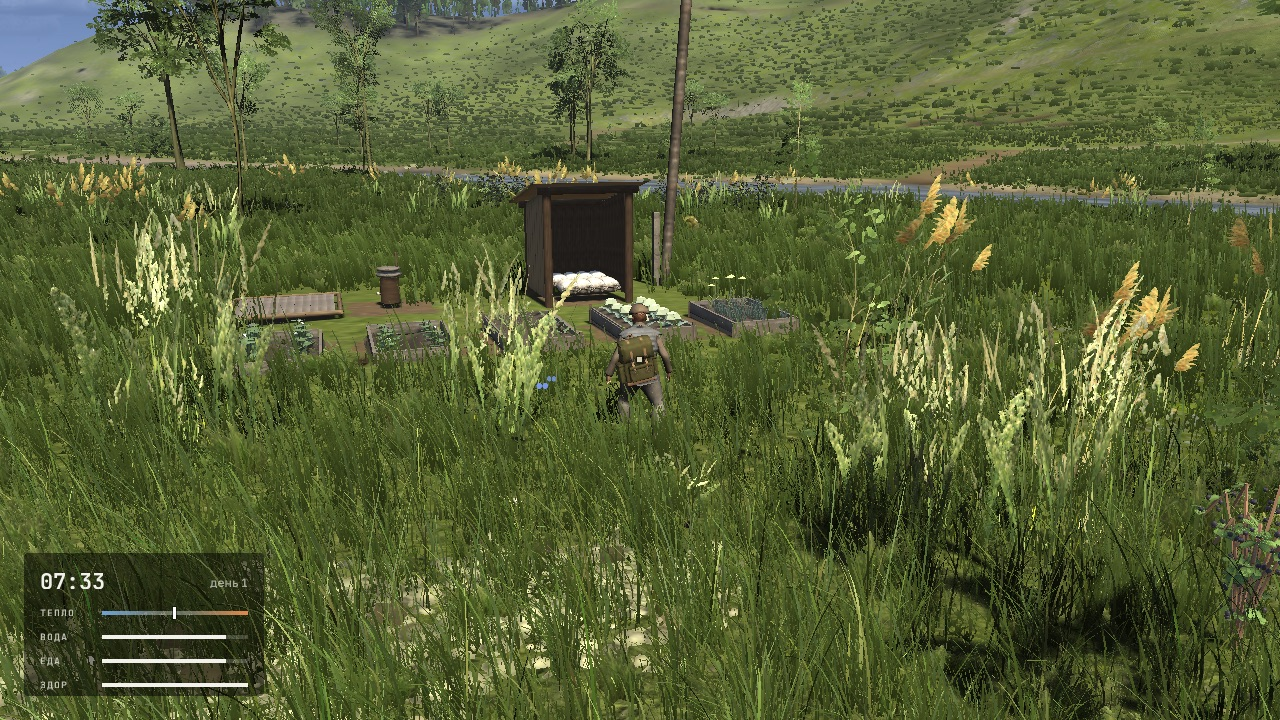
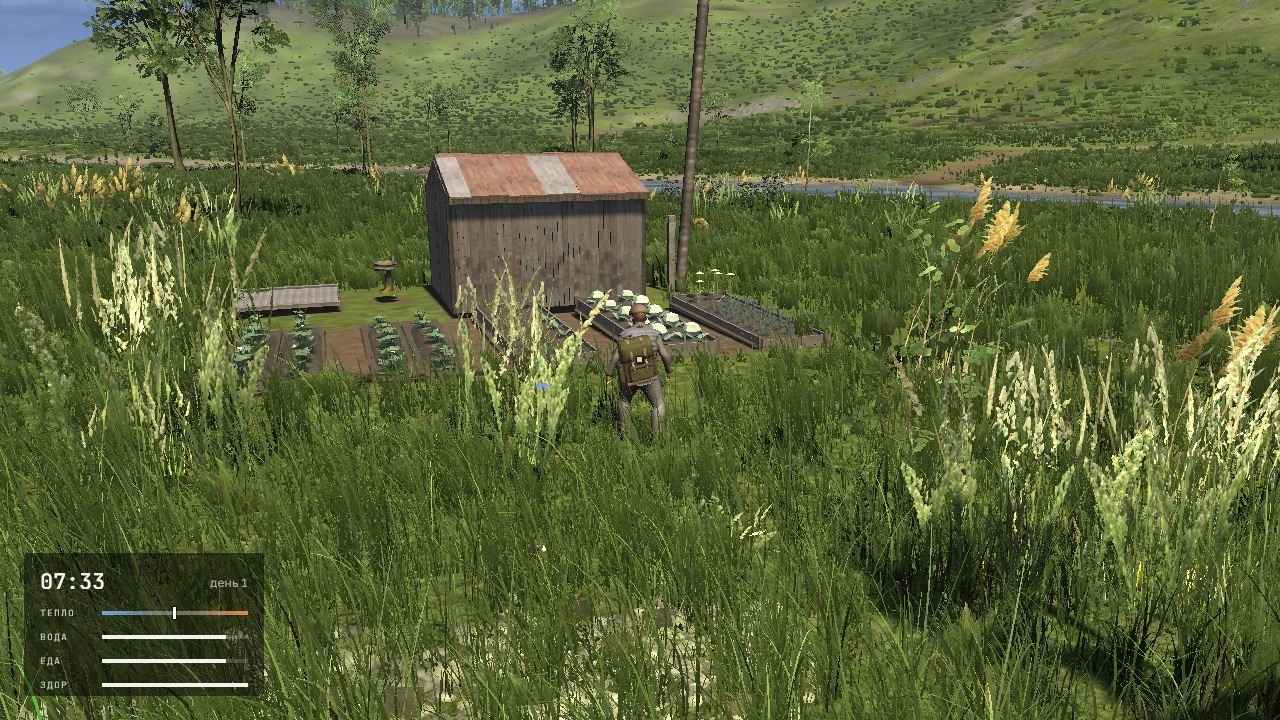
PV6 fields report

diff --git a/progress.js b/progress.js
@@ -766,7 +766,8 @@ window.PEREGON = {
     {"date": "2026-10-22", "time": "12:40", "stage": "PV7b · Новые места", "commit": "23e58d5a06", "branch": "claude/peregon-pv7b-places", "title": "Воинская часть, научная станция, ещё два бункера, автобаза и стройдвор; кузня, яма и швейные машинки в старых местах", "text": "Воинская часть 63472 на лугу у Плешивой: оружейный стол с прессом, гильзы, лом и запчасти, инструкция к армейскому грузовику в штабе; заражена днём и ночью (8 жильцов, гнездо в штабе). Научная полевая станция в долине: лабораторный домик и журнал лаборатории; заражена днём и ночью (5 жильцов, два гнезда — под записки). Ещё два бункера — гарнизонное убежище и лесной бункер, со своей добычей и жильцами, заражены всегда. Автобаза у озёрной дороги: гаражный пост с ямой, кран-балкой, компрессором и зарядкой, чертёж бочки-прицепа; жильцы только ночью. Стройдвор у лесовозной дороги: верстак плотника и стройматериалы, без жильцов. В старых местах: кузня в колхозе, смотровая яма в колхозном ангаре, швейные машинки в четырёх деревенских домах. Все 11 документов-рецептов теперь лежат в мире. Всего 82 жильца в 27 местах.", "checks": [{"ok": true, "name": "Тесты", "value": "poi 11, zhiltsy 8, stations 11, tech 6, bunker 6 (кооп), stations_play 19, tech_play 7, zhiltsy_play 5, coop_audit 29, railworks_play 9, region_static"}, {"ok": true, "name": "Кадр", "value": "часть 14,8 мс, станция 12,9, автобаза 8,0, стройдвор 15,0 (Лесопилка 13,6)"}, {"ok": false, "name": "Открыто", "value": "оружейный стол, кузня, яма, лабораторный стол, швейная машинка — серые коробки; новые станки пока без рецептов (PV9); капсюлей и пороха нет — вместо них патроны"}], "shots": [{"src": "shots/pv7b/01_military_unit_day.jpg", "caption": "Воинская часть", "platform": "native Metal"}, {"src": "shots/pv7b/11_military_unit_night_zhiltsy.jpg", "caption": "Часть ночью: жильцы", "platform": "native Metal"}, {"src": "shots/pv7b/02_research_station_day.jpg", "caption": "Научная станция", "platform": "native Metal"}, {"src": "shots/pv7b/03_motor_depot_day.jpg", "caption": "Автобаза", "platform": "native Metal"}, {"src": "shots/pv7b/04_builders_yard_day.jpg", "caption": "Стройдвор", "platform": "native Metal"}, {"src": "shots/pv7b/09_kolkhoz_forge.jpg", "caption": "Кузня в колхозе", "platform": "native Metal"}, {"src": "shots/pv7b/13_garrison_shelter_inside.jpg", "caption": "Гарнизонное убежище", "platform": "native Metal"}]},
     {"date": "2026-10-22", "time": "13:55", "stage": "PV5 · Налёты", "commit": "0f7f6e3ba7", "branch": "claude/peregon-pv5-raids", "title": "Налёты жильцов на базу: наблюдатели, предупреждения, крик, штурм ограды и окон; оборонительные постройки", "text": "База — самое большое скопление построек игроков (от 6 элементов или любой склад/верстак). Налёт через 7–14 дней после появления базы и дальше каждые 7–14 дней. За 3–4 ночи до него у базы появляются 1–2 жильца, с каждой ночью больше: стоят в 45–70 м, смотрят и машут, а если подойти, пойти на них или выстрелить рядом — убегают. Каждое утро подготовки: «Замечен чужой вне зон обитания. Готовьтесь к нападению», в день налёта: «Сегодня ночью будет нападение». Ночью долгий крик (будит спящих, сон налёт не пропускает), потом штурм: 4–6 жильцов на первый раз, больше с каждым игроком и прожитыми днями. Двое уходят за каждым игроком, который далеко от базы. Остальные ломают самое слабое место на пути, проходят в открытые ворота, перелезают низкие заборы и лезут в окна через сломанные ставни; на рассвете рассыпаются. 13 оборонительных построек (П-097…П-116): заборы, частокол, ворота, калитки, ставни, колья, ров и вал, вышка, рельс-набат — у каждой прочность, сломанные теряют стену и кренятся, киянка чинит. Жильцы больше не проходят сквозь заборы, бегуны мостиком наклоняются по склону, тела темнее. Лимит видов построек расширен до 255.", "checks": [{"ok": true, "name": "Тесты", "value": "raid (налёт от подготовки до рассвета, сохранение), build, build_mesh_lint 19, zhiltsy, zhiltsy_play (+налёт на карте, кооп), build_play, loc, net, net_world, stations_play"}, {"ok": true, "name": "Сборка", "value": "native-release, протокол 34"}, {"ok": false, "name": "Открыто", "value": "налёт не видит дома посёлка рядом с базой как препятствия; на вышку — телепорт вместо лестницы; машину жильцы не ломают; оборона — существующие модели"}], "shots": [{"src": "shots/pv5/01_scouts_watch_the_base.jpg", "caption": "Наблюдатели у базы машут", "platform": "native Metal"}, {"src": "shots/pv5/02_preparation_message.jpg", "caption": "«Готовьтесь к нападению»", "platform": "native Metal"}, {"src": "shots/pv5/03_raid_day_message.jpg", "caption": "«Сегодня ночью будет нападение»", "platform": "native Metal"}, {"src": "shots/pv5/05_attack_on_the_wicket.jpg", "caption": "Штурм калитки", "platform": "native Metal"}, {"src": "shots/pv5/06_climbing_in_through_a_broken_shutter.jpg", "caption": "Лезет в окно через сломанную ставню", "platform": "native Metal"}, {"src": "shots/pv5/04_hunted_away_from_the_base.jpg", "caption": "Охота на игрока вдали от базы", "platform": "native Metal"}, {"src": "shots/pv5/08_book_defence_page.jpg", "caption": "Книга: оборона", "platform": "native Metal"}]},
     {"date": "2026-10-22", "time": "14:30", "stage": "PV3b · Постройки", "commit": "4aee9b3e4c", "branch": "claude/peregon-pv3b-pieces", "title": "74 постройки из каталога: дома из досок, кирпича и металла, печи, кровати, свет, колодцы, хранение; кирпич и металл; модель киянки", "text": "В книге построек 11 страниц и 74 новые постройки из каталога (кроме обороны), каждая открывается своей технологией. Новые формы: полустена, перегородка, перила, столбчатый и ленточный фундаменты (стены на склоне до 1,5 м). Работают в игре: печи и костры берут дрова, горят по игровому времени, греют и светят; все кровати — сон; керосиновые лампы включаются, электрический свет — от работающего генератора; бочка для дождя, ванна и колодцы — вода; хранилища принимают только свои вещи; термометр показывает температуру. Генератор и пилорама ставятся из книги и с панели. Кирпич, раствор, пруток и профлист — новые предметы из тайников в разрушенных избах, ангаре, мастерских и ломе; кирпичные и металлические стены и крыша — настоящие модели. Своя модель киянки. Иконки панели перерисованы — 153 штуки.", "checks": [{"ok": true, "name": "Тесты", "value": "build 13 (151 элемент чистый), build_play 19, build_mesh_lint 84, scrap, loc, stations_play, net_world, coop_audit, raid"}, {"ok": true, "name": "Сборка", "value": "native-release"}, {"ok": false, "name": "Открыто", "value": "~25 позиций каталога без постройки (труба, пандусы, мосты, ветряк и др.); нет покрытий кровли и второго этажа; мелкие вещи занимают клетку 2 м; папоротник растёт сквозь пол; возврат при разборке 50 % ждёт решения"}], "shots": [{"src": "shots/pv3b/01_board_house_roof_door_window.jpg", "caption": "Дом из досок с крышей, дверью и окном", "platform": "native Metal"}, {"src": "shots/pv3b/02_iron_stove_inside.jpg", "caption": "Железная печь внутри", "platform": "native Metal"}, {"src": "shots/pv3b/03_brick_wall_half_wall_brick_stove_fireplace.jpg", "caption": "Кирпичная стена, полустена, печь, камин", "platform": "native Metal"}, {"src": "shots/pv3b/04_quick_bar_new_icons_mallet_first_person.jpg", "caption": "Панель с новыми иконками и киянка", "platform": "native Metal"}, {"src": "shots/pv3b/07_generator_started_from_bar_ghost.jpg", "caption": "Генератор с панели построек", "platform": "native Metal"}, {"src": "shots/pv3b/08_piece_icon_atlas.jpg", "caption": "Иконки построек", "platform": "Blender"}]},
-    {"date": "2026-10-22", "time": "16:00", "stage": "PV8 · Записки", "commit": "ff505a2a03", "branch": "claude/peregon-pv8-notes", "title": "37 записок о волне: исследователи, гарнизон, депо, шахтёры, шофёры, Лесопилка, колхоз", "text": "Найденные записки лежат на столах, нарах, в шкафчиках и у гнёзд жильцов: в каждом из 11 гнёзд есть записка, остальные — в бункерах, воинской части, научной станции, депо, на руднике, автобазе, заправке и в деревнях. 37 текстов в духе каталога, простым языком, без объяснения жильцов; 8 сквозных историй: группа Ситниковой, Кравец и гарнизон, бригада депо, шахтёры, шофёры автобазы и сын заправщика, Лесопилка, колхоз. E — открыть лист, первое прочтение даёт 20 опыта технологий; записка остаётся на месте для остальных и ложится в блокнот (Shift+K, вкладка «Записки»), её можно перечитать. У каждого игрока свой список; в коопе читать можно только рядом с запиской. Заодно экскаватор на разрезе передвинут на ровное место — все 103 места на карте собираются без ошибок.", "checks": [{"ok": true, "name": "Тесты", "value": "notes 3, notes_play 5 (кооп), tech_play, coop_audit, net, railworks_play, raid, loc"}, {"ok": true, "name": "Сборка", "value": "native-release, протокол 35"}, {"ok": false, "name": "Открыто", "value": "бумаги на полу бункеров невидимы (смотрят вниз, было и раньше); пять записок в бункерах не проверены глазами — слишком темно"}], "shots": [{"src": "shots/pv8/02_reading.jpg", "caption": "Чтение записки", "platform": "native Metal"}, {"src": "shots/pv8/01_nest_note_night.jpg", "caption": "Записка у гнезда ночью", "platform": "native Metal"}, {"src": "shots/pv8/03_research_station_lab_bench.jpg", "caption": "Научная станция", "platform": "native Metal"}, {"src": "shots/pv8/04_mil_base_hq_desk.jpg", "caption": "Штаб воинской части", "platform": "native Metal"}, {"src": "shots/pv8/06_notebook_notes.jpg", "caption": "Блокнот: «Записки»", "platform": "native Metal"}]}
+    {"date": "2026-10-22", "time": "16:00", "stage": "PV8 · Записки", "commit": "ff505a2a03", "branch": "claude/peregon-pv8-notes", "title": "37 записок о волне: исследователи, гарнизон, депо, шахтёры, шофёры, Лесопилка, колхоз", "text": "Найденные записки лежат на столах, нарах, в шкафчиках и у гнёзд жильцов: в каждом из 11 гнёзд есть записка, остальные — в бункерах, воинской части, научной станции, депо, на руднике, автобазе, заправке и в деревнях. 37 текстов в духе каталога, простым языком, без объяснения жильцов; 8 сквозных историй: группа Ситниковой, Кравец и гарнизон, бригада депо, шахтёры, шофёры автобазы и сын заправщика, Лесопилка, колхоз. E — открыть лист, первое прочтение даёт 20 опыта технологий; записка остаётся на месте для остальных и ложится в блокнот (Shift+K, вкладка «Записки»), её можно перечитать. У каждого игрока свой список; в коопе читать можно только рядом с запиской. Заодно экскаватор на разрезе передвинут на ровное место — все 103 места на карте собираются без ошибок.", "checks": [{"ok": true, "name": "Тесты", "value": "notes 3, notes_play 5 (кооп), tech_play, coop_audit, net, railworks_play, raid, loc"}, {"ok": true, "name": "Сборка", "value": "native-release, протокол 35"}, {"ok": false, "name": "Открыто", "value": "бумаги на полу бункеров невидимы (смотрят вниз, было и раньше); пять записок в бункерах не проверены глазами — слишком темно"}], "shots": [{"src": "shots/pv8/02_reading.jpg", "caption": "Чтение записки", "platform": "native Metal"}, {"src": "shots/pv8/01_nest_note_night.jpg", "caption": "Записка у гнезда ночью", "platform": "native Metal"}, {"src": "shots/pv8/03_research_station_lab_bench.jpg", "caption": "Научная станция", "platform": "native Metal"}, {"src": "shots/pv8/04_mil_base_hq_desk.jpg", "caption": "Штаб воинской части", "platform": "native Metal"}, {"src": "shots/pv8/06_notebook_notes.jpg", "caption": "Блокнот: «Записки»", "platform": "native Metal"}]},
+    {"date": "2026-10-22", "time": "16:35", "stage": "PV6 · Огород и поля", "commit": "137e5a9dab", "branch": "claude/peregon-pv6-fields", "title": "Огород, поля где угодно, сеялка, косилка, обмолот, мука и амбар", "text": "Огород: 31 старая грядка в брошенных местах (вскопать один раз — летом и осенью даёт дикий урожай), новые грядки строятся (ТС-51). Картошка и лук сажаются самими клубнями и луковицами, морковь, свёкла и капуста — из пакетиков семян; посадка не даётся, если урожай не успеет до заморозков; мороз губит неубранное; уборка — удерживать E. Без дождя 60 игровых часов рост встаёт, ведро воды держит грядку 36 ч. Поля: плуг размечает поле где угодно на лугу, в степи или на поле (квадраты 128 м, до 24); сеялка или руками на ходу; косилка (валки собираются в снопы), серп или жатка спереди. Семенная пшеница — на элеваторе, мельнице и колхозном току. Ток: снопы → зерно и солома; ручная мельница: зерно → мука; амбар на 400 мест без порчи, принимает зерно прямо из кузова. Каша и лепёшки варятся на костре. Каждая машина и постройка — по своей технологии. Кооп: один пашет, другой сеет.", "checks": [{"ok": true, "name": "Тесты", "value": "farm 27 (рост грядок детерминирован), fields_play 5 (кооп), build 14, build_play, build_mesh_lint, food_play, net_world, raid"}, {"ok": true, "name": "Сборка", "value": "native-release"}, {"ok": false, "name": "Открыто", "value": "спелая пшеница на новом поле похожа на жёлтую траву; сеялка, косилка, снопы и серп — коробки; морковь, свёкла и капуста — модели картошки и лука; нет молотилки от генератора, печного хлеба, мельницы в Берёзовке, сена и овса"}], "shots": [{"src": "shots/pv6/01_garden_beds_growing.jpg", "caption": "Грядки растут", "platform": "native Metal"}, {"src": "shots/pv6/03_harvested_potatoes.jpg", "caption": "Собранная картошка", "platform": "native Metal"}, {"src": "shots/pv6/04_new_field_ploughed_on_meadow.jpg", "caption": "Новое поле на лугу", "platform": "native Metal"}, {"src": "shots/pv6/05_seed_drill_sowing.jpg", "caption": "Сеялка", "platform": "native Metal"}, {"src": "shots/pv6/07_reaping_front_harvester.jpg", "caption": "Жатка", "platform": "native Metal"}, {"src": "shots/pv6/09_threshing_floor.jpg", "caption": "Ток", "platform": "native Metal"}, {"src": "shots/pv6/10_hand_quern_flour.jpg", "caption": "Ручная мельница: мука", "platform": "native Metal"}]}
   ],
 
   elements: [

diff --git a/changes.html b/changes.html
@@ -52,7 +52,7 @@
 <h3>Фиксы</h3><ul></ul>
 </section>
 <section><h2>Четверг, 22 октября</h2>
-<h3>Фичи</h3><ul><li>Места брошены: без жилого убранства, ночью огни погашены.</li><li>Убраны сюжет, квесты, диалоги, катсцены, контракты и все НПС; старые сохранения грузятся.</li><li>Убраны бандиты, заставы, конвои, фракции и Выброс; враги — только звери (жильцы будут позже).</li><li>Дерево технологий отдельно от навыков: 174 узла, свой опыт у каждого игрока, рецепты-документы в мире, вкладка «Технологии» в блокноте.</li><li>Станки работают сами: генератор на керосине и пилорама на Лесопилке, ремонт найденных станков, отчёт «Пока вас не было».</li><li>Жильцы: четыре тела из бывших жителей с выжженными глазами и улыбкой, 15 анимаций — взмах, поворот головы на 180°, бег мостиком, вой, рассыпание.</li><li>Жильцы выходят по ночам в бывших посёлках: ходят маршрутами прежних жителей, смотрят, машут, гонятся за бегущим, рассыпаются на рассвете.</li><li>Стройка киянкой: панель быстрых построек с иконками, наборы материалов (жерди, брёвна, доски), автоподбор из кузова и со склада по технологии, склады.</li><li>Станки разбираются на ящики, возятся в кузове и собираются на новом месте; генератор и пилораму можно построить с нуля.</li><li>Депо на Берёзовской ветке: мотовоз чинится и возит хоппер, экскаватор на разрезе грузит вагон угля; новый железный рудник.</li><li>Новые места: воинская часть с оружейным столом, научная станция, ещё два бункера, автобаза, стройдвор; кузня, смотровая яма и швейные машинки в старых местах.</li><li>Налёты жильцов на базу раз в 1–2 недели: наблюдатели и предупреждения, крик, штурм ограды и окон, охота на тех, кто далеко; заборы, ворота, ставни, вышка и рельс-набат.</li><li>74 новые постройки: дома из досок, кирпича и металла, печи греют и светят, кровати, лампы, колодцы и бочки для воды, хранилища; кирпич и металл из тайников; модель киянки.</li><li>37 записок о волне в гнёздах жильцов и на новых местах; вкладка «Записки» в блокноте.</li></ul>
+<h3>Фичи</h3><ul><li>Места брошены: без жилого убранства, ночью огни погашены.</li><li>Убраны сюжет, квесты, диалоги, катсцены, контракты и все НПС; старые сохранения грузятся.</li><li>Убраны бандиты, заставы, конвои, фракции и Выброс; враги — только звери (жильцы будут позже).</li><li>Дерево технологий отдельно от навыков: 174 узла, свой опыт у каждого игрока, рецепты-документы в мире, вкладка «Технологии» в блокноте.</li><li>Станки работают сами: генератор на керосине и пилорама на Лесопилке, ремонт найденных станков, отчёт «Пока вас не было».</li><li>Жильцы: четыре тела из бывших жителей с выжженными глазами и улыбкой, 15 анимаций — взмах, поворот головы на 180°, бег мостиком, вой, рассыпание.</li><li>Жильцы выходят по ночам в бывших посёлках: ходят маршрутами прежних жителей, смотрят, машут, гонятся за бегущим, рассыпаются на рассвете.</li><li>Стройка киянкой: панель быстрых построек с иконками, наборы материалов (жерди, брёвна, доски), автоподбор из кузова и со склада по технологии, склады.</li><li>Станки разбираются на ящики, возятся в кузове и собираются на новом месте; генератор и пилораму можно построить с нуля.</li><li>Депо на Берёзовской ветке: мотовоз чинится и возит хоппер, экскаватор на разрезе грузит вагон угля; новый железный рудник.</li><li>Новые места: воинская часть с оружейным столом, научная станция, ещё два бункера, автобаза, стройдвор; кузня, смотровая яма и швейные машинки в старых местах.</li><li>Налёты жильцов на базу раз в 1–2 недели: наблюдатели и предупреждения, крик, штурм ограды и окон, охота на тех, кто далеко; заборы, ворота, ставни, вышка и рельс-набат.</li><li>74 новые постройки: дома из досок, кирпича и металла, печи греют и светят, кровати, лампы, колодцы и бочки для воды, хранилища; кирпич и металл из тайников; модель киянки.</li><li>37 записок о волне в гнёздах жильцов и на новых местах; вкладка «Записки» в блокноте.</li><li>Огород и поля где угодно: грядки, посадка до заморозков, плуг, сеялка, косилка, серп, ток, ручная мельница, амбар; каша и лепёшки.</li></ul>
 <h3>Фиксы</h3><ul><li>Жильцы больше не проходят сквозь заборы и стены при погоне.</li><li>Экскаватор на разрезе стоит на ровном месте; все места карты собираются без ошибок.</li></ul>
 </section>
 <footer>Список составлен по коммит <a href="https://github.com/shsanek/EXEcutor/commit/b24dd2d6f8e79337d91c69e452edabd551b65d01">b24dd2d6f8e79337d91c69e452edabd551b65d01</a> включительно.</footer>

diff --git a/merges/2026-10-22.md b/merges/2026-10-22.md
@@ -355,3 +355,31 @@
 ![Штаб воинской части](../shots/pv8/04_mil_base_hq_desk.jpg)
 
 ![Блокнот: «Записки»](../shots/pv8/06_notebook_notes.jpg)
+
+## 436. Огород, поля где угодно, сеялка, косилка, обмолот, мука и амбар
+
+16:35 · PV6 · Огород и поля
+
+Коммит: [137e5a9dab](https://github.com/shsanek/EXEcutor/commit/137e5a9dab)
+
+Ветка: `claude/peregon-pv6-fields`
+
+Огород: 31 старая грядка в брошенных местах (вскопать один раз — летом и осенью даёт дикий урожай), новые грядки строятся (ТС-51). Картошка и лук сажаются самими клубнями и луковицами, морковь, свёкла и капуста — из пакетиков семян; посадка не даётся, если урожай не успеет до заморозков; мороз губит неубранное; уборка — удерживать E. Без дождя 60 игровых часов рост встаёт, ведро воды держит грядку 36 ч. Поля: плуг размечает поле где угодно на лугу, в степи или на поле (квадраты 128 м, до 24); сеялка или руками на ходу; косилка (валки собираются в снопы), серп или жатка спереди. Семенная пшеница — на элеваторе, мельнице и колхозном току. Ток: снопы → зерно и солома; ручная мельница: зерно → мука; амбар на 400 мест без порчи, принимает зерно прямо из кузова. Каша и лепёшки варятся на костре. Каждая машина и постройка — по своей технологии. Кооп: один пашет, другой сеет.
+
+- ✓ Тесты: farm 27 (рост грядок детерминирован), fields_play 5 (кооп), build 14, build_play, build_mesh_lint, food_play, net_world, raid
+- ✓ Сборка: native-release
+- ✗ Открыто: спелая пшеница на новом поле похожа на жёлтую траву; сеялка, косилка, снопы и серп — коробки; морковь, свёкла и капуста — модели картошки и лука; нет молотилки от генератора, печного хлеба, мельницы в Берёзовке, сена и овса
+
+![Грядки растут](../shots/pv6/01_garden_beds_growing.jpg)
+
+![Собранная картошка](../shots/pv6/03_harvested_potatoes.jpg)
+
+![Новое поле на лугу](../shots/pv6/04_new_field_ploughed_on_meadow.jpg)
+
+![Сеялка](../shots/pv6/05_seed_drill_sowing.jpg)
+
+![Жатка](../shots/pv6/07_reaping_front_harvester.jpg)
+
+![Ток](../shots/pv6/09_threshing_floor.jpg)
+
+![Ручная мельница: мука](../shots/pv6/10_hand_quern_flour.jpg)

diff --git a/CHANGELOG.md b/CHANGELOG.md
@@ -799,6 +799,7 @@
 - Налёты жильцов на базу раз в 1–2 недели: наблюдатели и предупреждения, крик, штурм ограды и окон, охота на тех, кто далеко; заборы, ворота, ставни, вышка и рельс-набат.
 - 74 новые постройки: дома из досок, кирпича и металла, печи греют и светят, кровати, лампы, колодцы и бочки для воды, хранилища; кирпич и металл из тайников; модель киянки.
 - 37 записок о волне в гнёздах жильцов и на новых местах; вкладка «Записки» в блокноте.
+- Огород и поля где угодно: грядки, посадка до заморозков, плуг, сеялка, косилка, серп, ток, ручная мельница, амбар; каша и лепёшки.
 
 **Фиксы**
 

diff --git a/manager-log.md b/manager-log.md
@@ -1061,3 +1061,4 @@ One line per decision. Times are local (Mac).
 2026-10-22 15:30 PV8 notes and PV9a crafting finished; both asked to rebase onto fa7094098f (PV8 protocol 35, PV9a 36). Next: PV9b balance after PV9a merges
 2026-10-22 15:45 PV6 fields finished; asked to rebase onto fa7094098f, renumber its 4 build kinds after 137 (PV3b data pieces), protocol 37 if needed. Merge queue: PV8 -> PV9a -> PV6 (each rebases onto fa7094098f; later ones get small conflicts at merge). Visual follow-ups for a later art pass: wheat on new fields reads as yellow grass; farm implements, sheaves, new crops, crafted items are boxes
 2026-10-22 16:05 PV8 notes ff-merged ff505a2a03; build green, shadows refreshed, 8/8 touched tests; report pushed. PV8 complete
+2026-10-22 16:40 PV6 fields cherry-picked (137e5a9dab); build green, 8/8 touched tests; report pushed. PV9a doing a final rebase onto 137e5a9dab+bump. PVQ progression audit running
